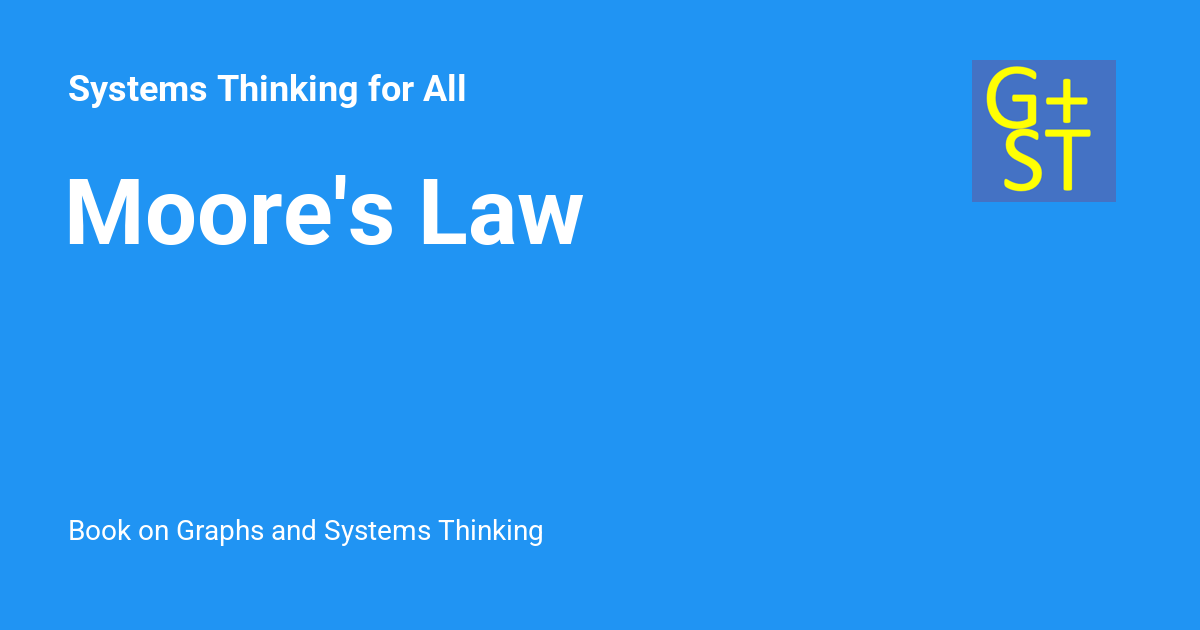
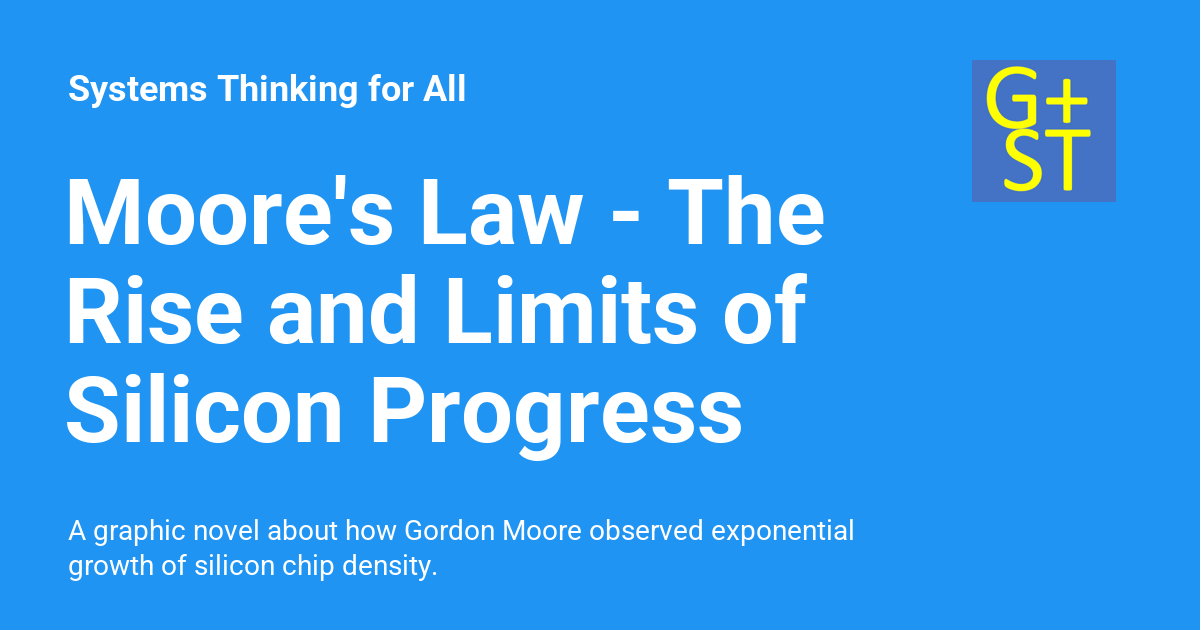
Deployed 23ab72f with MkDocs version: 1.6.1

diff --git a/stories/moores-law/index.html b/stories/moores-law/index.html
@@ -6,7 +6,7 @@
       <meta charset="utf-8">
       <meta name="viewport" content="width=device-width,initial-scale=1">
       
-        <meta name="description" content="Book on Graphs and Systems Thinking">
+        <meta name="description" content="A graphic novel about how Gordon Moore observed exponential growth of silicon chip density.">
       
       
         <meta name="author" content="Dan McCreary">
@@ -26,7 +26,7 @@
     
     
       
-        <title>Moore's Law - Systems Thinking for All</title>
+        <title>Moore's Law - The Rise and Limits of Silicon Progress - Systems Thinking for All</title>
       
     
     
@@ -73,11 +73,11 @@
       
         <meta  property="og:type"  content="website" >
       
-        <meta  property="og:title"  content="Moore's Law - Systems Thinking for All" >
+        <meta  property="og:title"  content="Moore's Law - The Rise and Limits of Silicon Progress - Systems Thinking for All" >
       
-        <meta  property="og:description"  content="Book on Graphs and Systems Thinking" >
+        <meta  property="og:description"  content="A graphic novel about how Gordon Moore observed exponential growth of silicon chip density." >
       
-        <meta  property="og:image"  content="https://dmccreary.github.io/systems-thinking/assets/images/social/stories/moores-law/index.png" >
+        <meta property="og:image" content="https://dmccreary.github.io/systems-thinking/systems-thinking/stories/moores-law/cover.jpg">
       
         <meta  property="og:image:type"  content="image/png" >
       
@@ -89,11 +89,11 @@
       
         <meta  name="twitter:card"  content="summary_large_image" >
       
-        <meta  name="twitter:title"  content="Moore's Law - Systems Thinking for All" >
+        <meta  name="twitter:title"  content="Moore's Law - The Rise and Limits of Silicon Progress - Systems Thinking for All" >
       
-        <meta  name="twitter:description"  content="Book on Graphs and Systems Thinking" >
+        <meta  name="twitter:description"  content="A graphic novel about how Gordon Moore observed exponential growth of silicon chip density." >
       
-        <meta  name="twitter:image"  content="https://dmccreary.github.io/systems-thinking/assets/images/social/stories/moores-law/index.png" >
+        <meta name="twitter:image" content="https://dmccreary.github.io/systems-thinking/systems-thinking/stories/moores-law/cover.jpg">
       
     
     
@@ -149,7 +149,7 @@
         <div class="md-header__topic" data-md-component="header-topic">
           <span class="md-ellipsis">
             
-              Moore's Law
+              Moore's Law - The Rise and Limits of Silicon Progress
             
           </span>
         </div>
